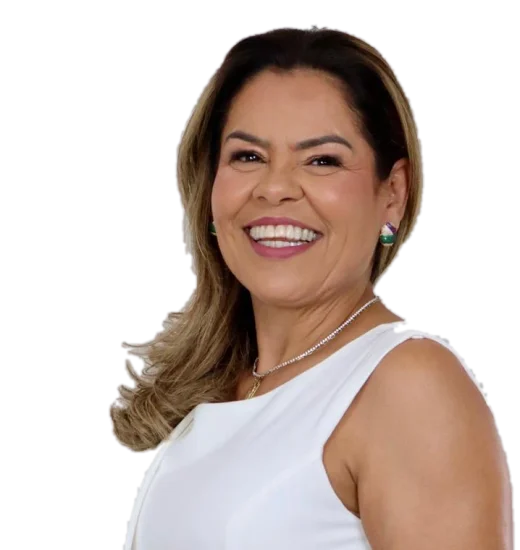
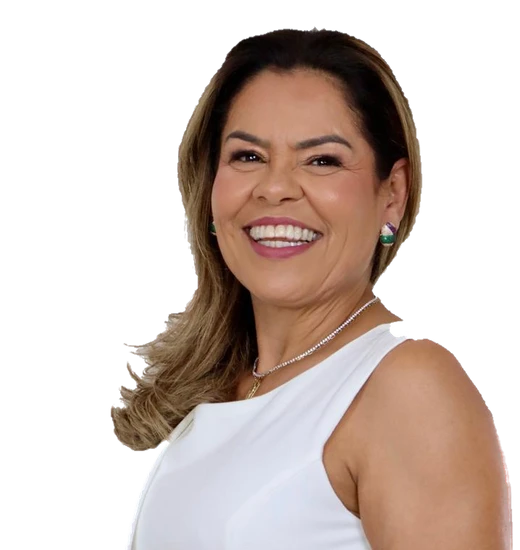
Serviços: recorte da Patrícia no cabeçalho sem bordas brancas

diff --git a/public/servicos-especializados.html b/public/servicos-especializados.html
@@ -57,7 +57,7 @@
 <section class="in-sec" id="portfolio" aria-labelledby="port-t"><svg class="ks-hero-curve" viewBox="0 0 1440 110" preserveAspectRatio="none" aria-hidden="true" focusable="false"><path d="M0 0H1440V18H360C290 18 270 110 200 110H0Z"/></svg><a class="in-hero-cue" href="#portfolio" aria-label="Ir para os serviços"><svg viewBox="0 0 24 24" aria-hidden="true"><path d="M12 5v14M6 13l6 6 6-6"/></svg></a>
   <div class="in-wrap">
     <!-- 27/11: cabeçalho dos serviços no desenho da referência (texto à esquerda; à direita, selo "Excelência e tradição" + quadro verde com a sócia recortada) -->
-    <div class="sv-top"><div class="sv-top-txt"><span class="in-eyebrow">OS SERVIÇOS</span><h2 class="in-h2" id="port-t">Conheça cada<br><em>serviço especializado.</em></h2><p class="sv-top-lead">Escopo e entregas definidos em cada projeto, para a empresa e para os seus sócios.</p></div><div class="sv-top-vis" aria-hidden="true"><span class="sv-top-pill"><span class="sv-top-pill-ic"><svg viewBox="0 0 24 24" aria-hidden="true"><path d="M12 3l2.2 5.6L20 9l-4.5 3.8L17 19l-5-3.2L7 19l1.5-6.2L4 9l5.8-.4z"/></svg></span>Excelência e tradição</span><span class="sv-top-card"><img src="assets/socia-servicos-busto-patricia.webp" alt="" width="520" height="550" loading="lazy" decoding="async"><span class="sv-top-dot sv-top-dot-1"><img src="assets/perennia-p.webp" alt="" width="57" height="74"></span><span class="sv-top-dot sv-top-dot-2"><svg viewBox="0 0 24 24"><path d="M12 3l8 3v5.5c0 4.6-3.3 8.2-8 9.5-4.7-1.3-8-4.9-8-9.5V6z"/><path d="M8.5 12l2.5 2.5 4.5-5"/></svg></span></span></div></div>
+    <div class="sv-top"><div class="sv-top-txt"><span class="in-eyebrow">OS SERVIÇOS</span><h2 class="in-h2" id="port-t">Conheça cada<br><em>serviço especializado.</em></h2><p class="sv-top-lead">Escopo e entregas definidos em cada projeto, para a empresa e para os seus sócios.</p></div><div class="sv-top-vis" aria-hidden="true"><span class="sv-top-pill"><span class="sv-top-pill-ic"><svg viewBox="0 0 24 24" aria-hidden="true"><path d="M12 3l2.2 5.6L20 9l-4.5 3.8L17 19l-5-3.2L7 19l1.5-6.2L4 9l5.8-.4z"/></svg></span>Excelência e tradição</span><span class="sv-top-card"><img src="assets/socia-servicos-busto-patricia.webp?v=2" alt="" width="520" height="550" loading="lazy" decoding="async"><span class="sv-top-dot sv-top-dot-1"><img src="assets/perennia-p.webp" alt="" width="57" height="74"></span><span class="sv-top-dot sv-top-dot-2"><svg viewBox="0 0 24 24"><path d="M12 3l8 3v5.5c0 4.6-3.3 8.2-8 9.5-4.7-1.3-8-4.9-8-9.5V6z"/><path d="M8.5 12l2.5 2.5 4.5-5"/></svg></span></span></div></div>
     <!-- 24/11: serviços em cards no modelo "Nossos diferenciais" (aba no topo, ícone em quadrado com sombra deslocada, texto centralizado; pares em verde). -->
     <div class="sv-grid">
       <article id="imposto-de-renda" class="sv-item"><span class="sv-ico" aria-hidden="true"><svg viewBox="0 0 24 24"><path d="M7 3h10a2 2 0 0 1 2 2v14a2 2 0 0 1-2 2H7a2 2 0 0 1-2-2V5a2 2 0 0 1 2-2z"/><path d="M8.5 7h7M8.5 11h2M13.5 11h2M8.5 15h2M13.5 15h2"/></svg></span><span class="sv-n">SERVIÇO 01</span><h3>Consultoria em Imposto de Renda</h3><p>Planejamento e revisão tributária para pessoas físicas e jurídicas, com análise de rendimentos, distribuição de lucros, ganhos de capital, evolução patrimonial e obrigações fiscais.</p><button class="sv-go" type="button" data-perennia-book data-interesse="Consultoria em Imposto de Renda">Conversar sobre este serviço<span aria-hidden="true"><svg viewBox="0 0 24 24" aria-hidden="true"><path d="M4 12h16m-6-6 6 6-6 6"/></svg></span></button></article>

diff --git a/CLAUDE.md b/CLAUDE.md
@@ -391,3 +391,4 @@ Como funciona (22/11): etapas em círculos verdes com ícones dourados (document
 - 27/11: Serviços — selos do Como contratar em verde com letras douradas; rodapé ganhou o "ombro" central com o selo (ft-notch, footer.has-notch, igual à 360); padding-bottom do Como contratar 190px (160 no celular) (CSS v=2711bi). Ainda NÃO PUBLICADO
 - 27/11: publicado o pacote de Serviços especializados (hero com foto, seções e rodapé novos) — CSS v=2711bi
 - 28/11: selo da hero de Serviços (≥1500px) desceu para top:54% para não encostar no título — CSS v=2811a
+- 28/11: Serviços — recorte da Patrícia no quadro verde do cabeçalho refeito sem as bordas brancas (cabelo e ombro): mesma foto (WhatsApp 08/11), script imgtool/cut5.js com alfa pela distância ao fundo, descontaminação da cor e remoção do halo do ombro; img com ?v=2
